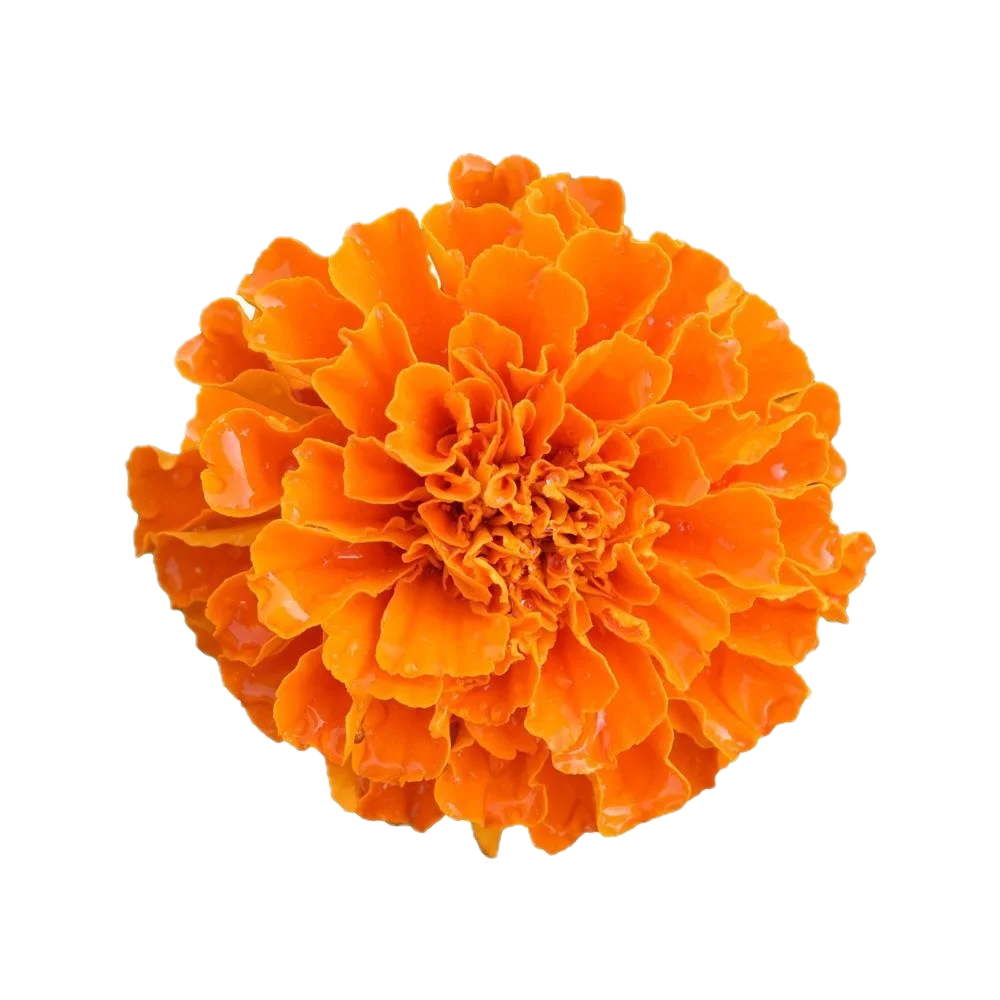
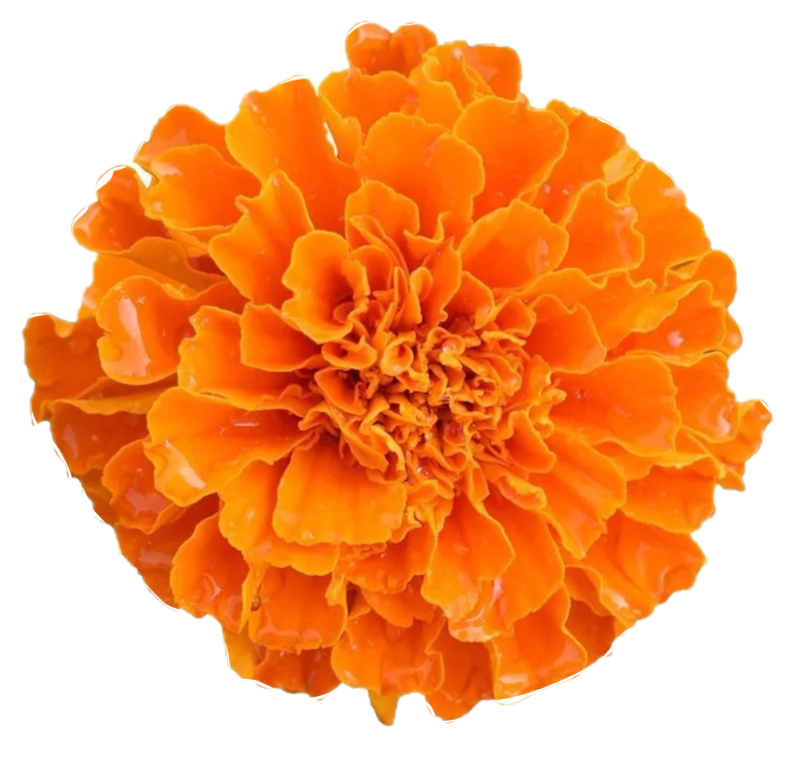
padding cleaned up

diff --git a/style.css b/style.css
@@ -685,20 +685,20 @@ body {
 
 /* JOURNAL + GENDA */
 .GENDABORDER{position: relative;top: 160vh;left: 0vw;}
-.genda1{position: absolute;top: 10vh;left: -10vw;z-index: 7;width: 20vw;}
-.genda2{position: absolute;top: 10vh;left: 5;z-index: 8;width: 20vw;}
-.genda3{position: absolute;top: 10vh;left: 15vw;z-index: 9;width: 20vw;}
-.genda4{position: absolute;top: 10vh;left: 25vw;z-index: 10;width: 20vw;} 
-.genda5{position: absolute;top: 10vh;left: 55vw;z-index: 11;width: 20vw;}
-.genda6{position: absolute;top: 10vh;left: 65vw;z-index: 12;width: 20vw;}
-.genda7{position: absolute;top: 10vh;left: 75vw;z-index: 13;width: 20vw;}
-.genda1A{position: absolute;top: 10vh;left: 7vw;z-index: 7;width: 20vw;}
-.genda2A{position: absolute;top: 10vh;left: 27;z-index: 8;width: 20vw;}
-.genda3A{position: absolute;top: 10vh;left: 35vw;z-index: 9;width: 25vw;}
-.genda4A{position: absolute;top: 10vh;left: 41vw;z-index: 14;width: 25vw;} 
-.genda5A{position: absolute;top: 10vh;left: 55vw;z-index: 11;width: 25vw;}
-.genda6A{position: absolute;top: 10vh;left: 60vw;z-index: 15;width: 20vw;}
-.genda7A{position: absolute;top: 10vh;left: 85vw;z-index: 19;width: 25vw;}
+.genda1{position: absolute;top: 10vh;left: -10vw;z-index: 7;width: 20vw;padding: 0px 0px 0px 0px;}
+.genda2{position: absolute;top: 10vh;left: 5;z-index: 8;width: 20vw;padding: 0px 0px 0px 0px;}
+.genda3{position: absolute;top: 10vh;left: 15vw;z-index: 9;width: 20vw;padding: 0px 0px 0px 0px;}
+.genda4{position: absolute;top: 10vh;left: 25vw;z-index: 10;width: 20vw;padding: 0px 0px 0px 0px;} 
+.genda5{position: absolute;top: 10vh;left: 55vw;z-index: 11;width: 20vw;padding: 0px 0px 0px 0px;}
+.genda6{position: absolute;top: 10vh;left: 65vw;z-index: 12;width: 20vw;padding: 0px 0px 0px 0px;}
+.genda7{position: absolute;top: 10vh;left: 75vw;z-index: 13;width: 20vw;padding: 0px 0px 0px 0px;}
+.genda1A{position: absolute;top: 10vh;left: 7vw;z-index: 7;width: 20vw;padding: 0px 0px 0px 0px;}
+.genda2A{position: absolute;top: 10vh;left: 27;z-index: 8;width: 20vw;padding: 0px 0px 0px 0px;}
+.genda3A{position: absolute;top: 10vh;left: 35vw;z-index: 9;width: 25vw;padding: 0px 0px 0px 0px;}
+.genda4A{position: absolute;top: 10vh;left: 41vw;z-index: 14;width: 25vw;padding: 0px 0px 0px 0px;} 
+.genda5A{position: absolute;top: 10vh;left: 55vw;z-index: 11;width: 25vw;padding: 0px 0px 0px 0px;}
+.genda6A{position: absolute;top: 10vh;left: 60vw;z-index: 15;width: 20vw;padding: 0px 0px 0px 0px;}
+.genda7A{position: absolute;top: 10vh;left: 85vw;z-index: 19;width: 25vw;padding: 0px 0px 0px 0px;}
 
 #JOURNAL{
   position: relative;
